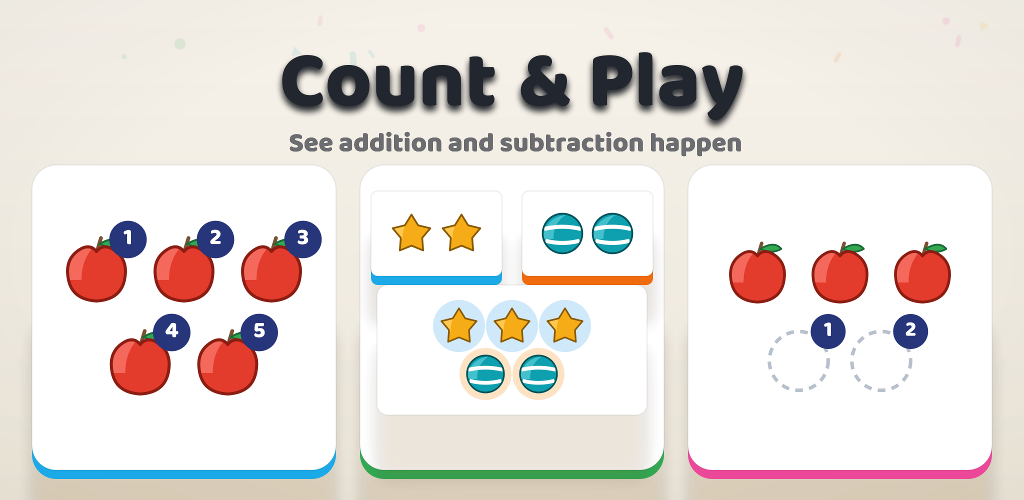
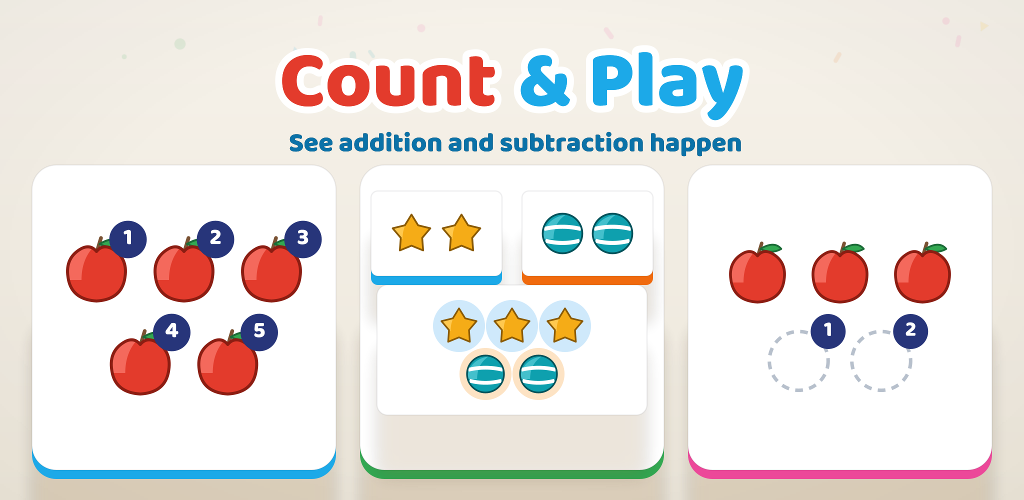
Put the wordmark back in candy
A kids' app title does not get to wear near-black. The feature
graphic's wordmark returns to its candy two-tone sticker lettering,
red Count and blue Play over the white keyline, and the tagline to
its deep blue. The cards beneath stay quiet; only the title sings.

Changed region(s): [[0.25, 0.09, 0.75, 0.33]]

diff --git a/tools/src/main/kotlin/toybox/tools/FeatureArt.kt b/tools/src/main/kotlin/toybox/tools/FeatureArt.kt
@@ -17,6 +17,7 @@ import kotlin.random.Random
 private val GROUND = rgb(246, 242, 234)
 private val GROUND_DEEP = rgb(237, 231, 219)
 private val BLUE = rgb(28, 169, 232)
+private val DEEP_BLUE = rgb(11, 114, 168)
 private val RED = rgb(227, 59, 44)
 private val TEAL = rgb(14, 160, 174)
 private val YELLOW = rgb(250, 184, 5)
@@ -24,9 +25,6 @@ private val GREEN = rgb(51, 168, 82)
 private val ORANGE = rgb(240, 106, 14)
 private val PINK = rgb(236, 72, 153)
 private val CONFETTI_COLORS = listOf(BLUE, RED, YELLOW, GREEN, TEAL, ORANGE, PINK)
-
-/** The muted ink for the promise line, quiet against the paper. */
-private val TAG_INK = mix(INK, GROUND, 0.35)
 
 /** No shadow: alpha zero keeps the quiet surfaces as the only depth. */
 private val NO_SHADOW = Quad(0.0, 0.0, 0, 0.0)
@@ -43,15 +41,16 @@ private fun featureGround(): Img {
 
 private fun featureBand(img: Img) {
     // One centred column: wordmark above, tagline below, tiles beneath. The
-    // wordmark is ink: in the calm gallery the color lives in the toys.
+    // wordmark keeps its candy two-tone sticker lettering: this is a kids'
+    // app, and the title gets to be as playful as the toys beneath it.
     val w1 = textAdvance("Count", font("black", 160))
     val w2 = textAdvance("& Play", font("black", 160))
     val x = 1024.0 - (w1 + 42.0 + w2) / 2
-    brandText(img, x, 168.0, "Count", 160, INK, anchor = "lm")
-    brandText(img, x + w1 + 42.0, 168.0, "& Play", 160, INK, anchor = "lm")
+    brandText(img, x, 168.0, "Count", 160, RED, keyline = 14.0, shadow = NO_SHADOW, anchor = "lm")
+    brandText(img, x + w1 + 42.0, 168.0, "& Play", 160, BLUE, keyline = 14.0, shadow = NO_SHADOW, anchor = "lm")
     val tag = "See addition and subtraction happen"
     val ta = textAdvance(tag, font("bold", 54))
-    brandText(img, 1024.0 - ta / 2, 288.0, tag, 54, TAG_INK, shadow = NO_SHADOW, anchor = "lm")
+    brandText(img, 1024.0 - ta / 2, 288.0, tag, 54, DEEP_BLUE, shadow = NO_SHADOW, anchor = "lm")
 }
 
 /** A soft blurred warm rounded-rect shadow under a floating card. */
